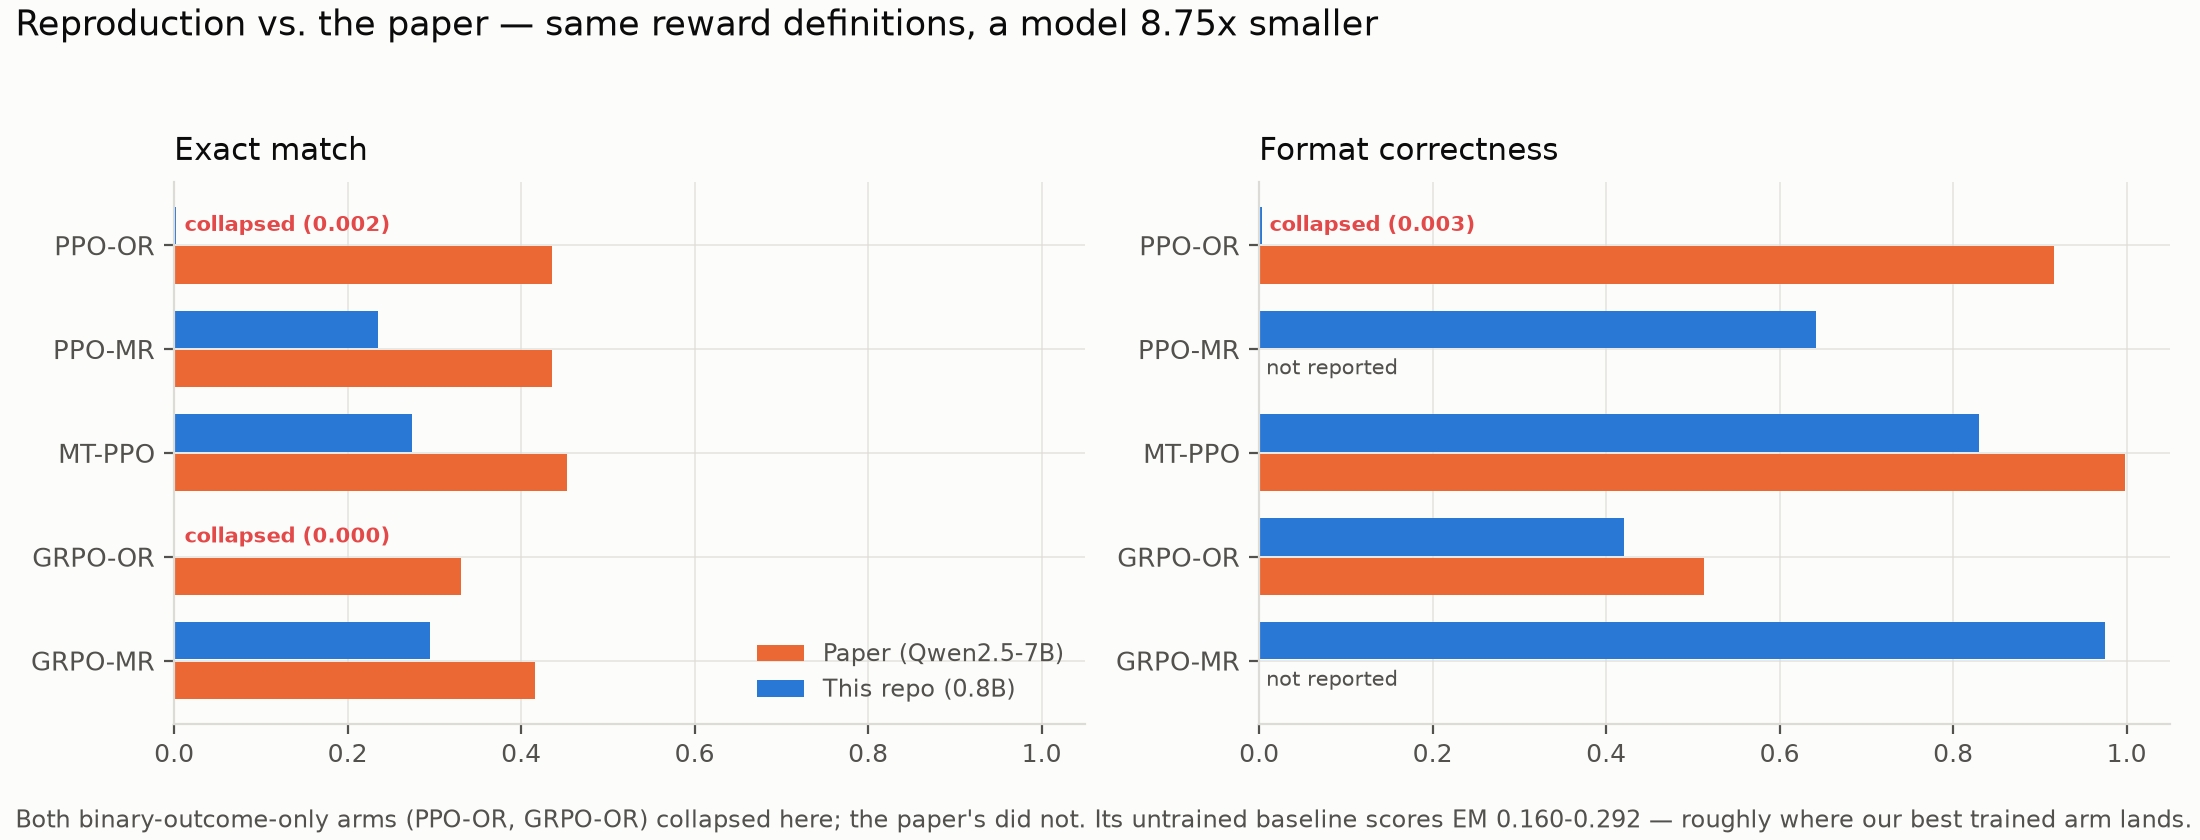
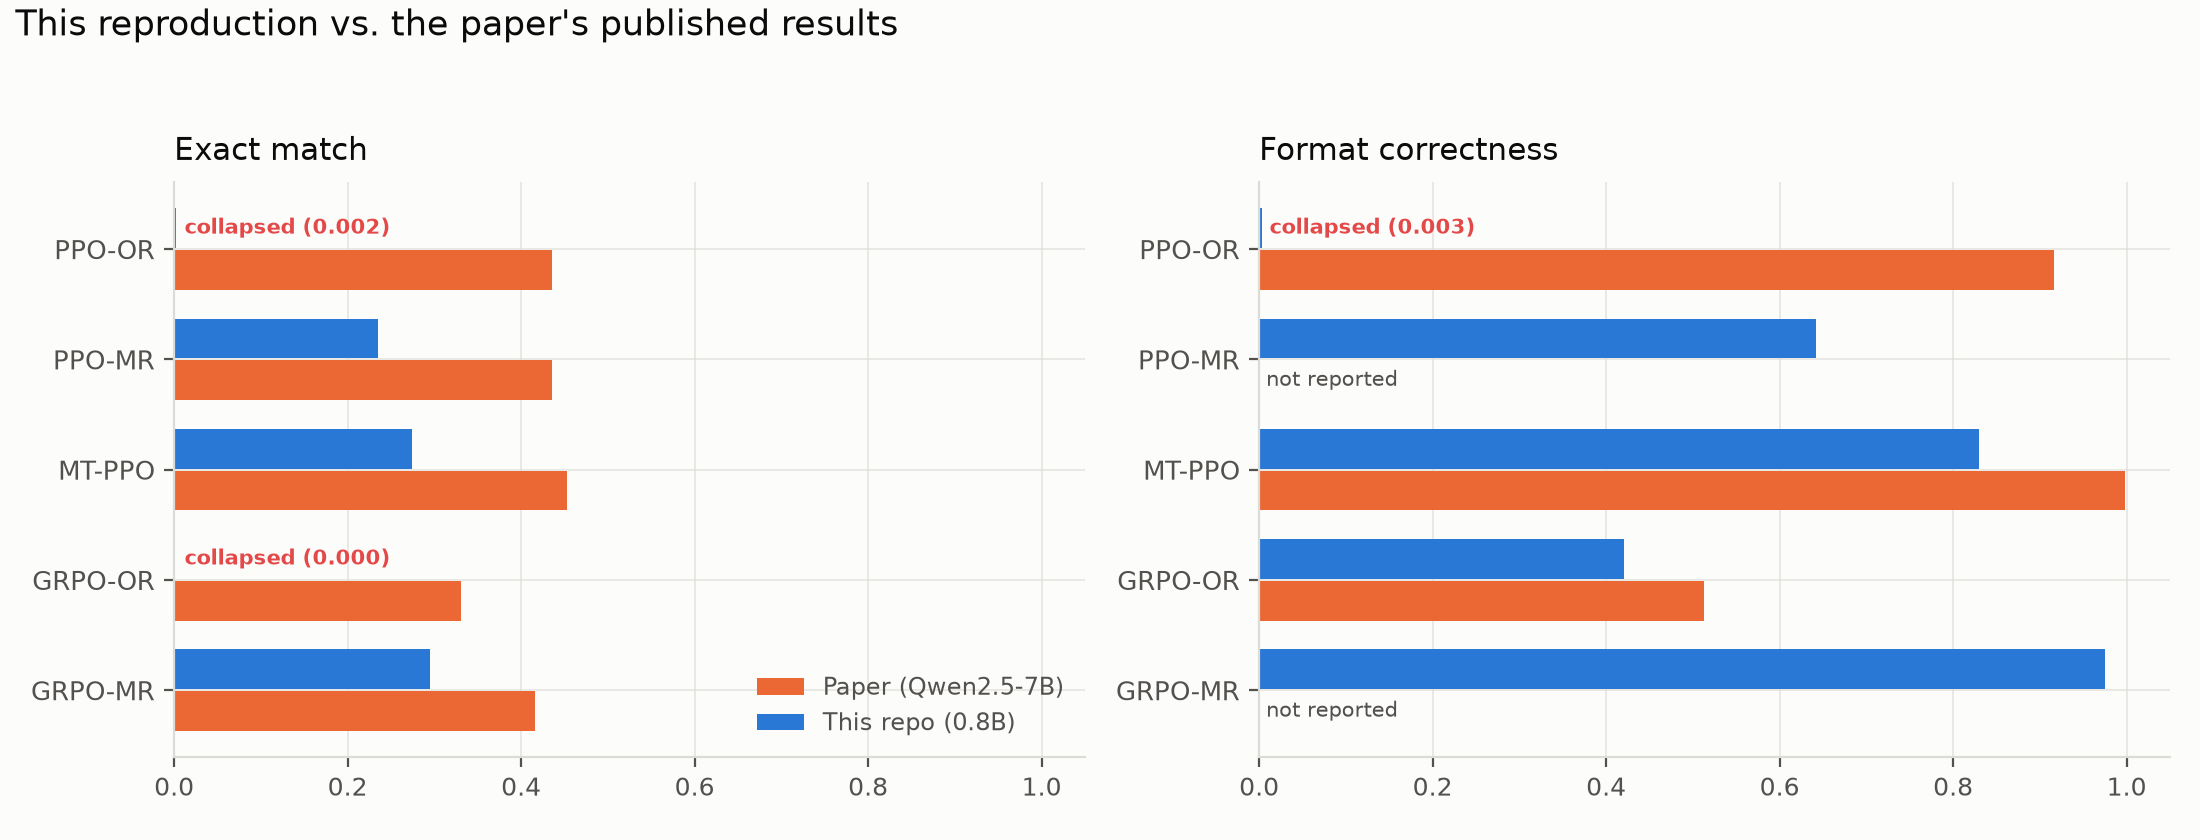
Quieten the reproduction-vs-paper chart
Title claimed "same reward definitions", which reads as the five arms sharing
one reward -- they don't, the -OR arms are binary and the -MR arms graded.
Dropped rather than reworded: the chart's job is the comparison, not the
reward taxonomy the section above already covers.

Also drops the two-line footnote. It said which arms collapsed, which the
in-chart red "collapsed (0.002)" labels already say, and repeated the
model-size and untrained-baseline figures verbatim from the paragraph
directly beneath the image.

diff --git a/scripts/plot_phase7c.py b/scripts/plot_phase7c.py
@@ -112,22 +112,16 @@ def plot_vs_paper(summary: dict, out: Path) -> None:
 
     em_ax.legend(frameon=False, fontsize=8.5, loc="lower right", labelcolor=INK_SOFT)
     fig.suptitle(
-        "Reproduction vs. the paper — same reward definitions, a model 8.75x smaller",
+        "This reproduction vs. the paper's published results",
         fontsize=12.5,
         color=INK,
         x=0.007,
         ha="left",
         y=0.99,
     )
-    fig.text(
-        0.007,
-        0.015,
-        "Both binary-outcome-only arms (PPO-OR, GRPO-OR) collapsed here; the paper's did not. "
-        "Its untrained baseline scores EM 0.160-0.292 — roughly where our best trained arm lands.",
-        fontsize=8.5,
-        color=INK_SOFT,
-    )
-    fig.tight_layout(rect=(0, 0.05, 1, 0.95))
+    # No footnote: the in-chart "collapsed" labels already say which arms died, and the surrounding
+    # prose carries the model-size caveat. Repeating either here just competes with the bars.
+    fig.tight_layout(rect=(0, 0.01, 1, 0.95))
     fig.savefig(out, dpi=200, facecolor=SURFACE)
     plt.close(fig)
 
